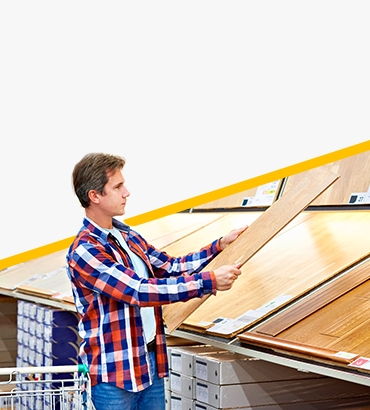
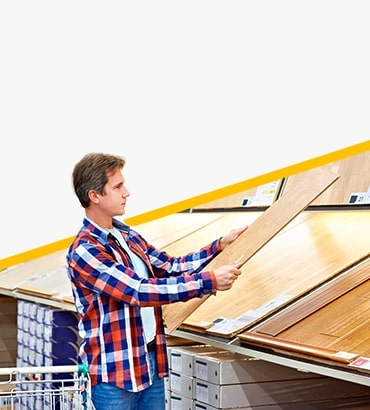
test site

diff --git a/index.html b/index.html
@@ -6,31 +6,6 @@
   <meta name="viewport" content="width=device-width, initial-scale=1.0">
   <meta http-equiv="X-UA-Compatible" content="ie=edge">
   <title>Ремонт квартир</title>
-  <!-- Yandex.Metrika counter -->
-  <script>
-    (function (m, e, t, r, i, k, a) {
-      m[i] = m[i] || function () {
-        (m[i].a = m[i].a || []).push(arguments)
-      };
-      m[i].l = 1 * new Date();
-      k = e.createElement(t), a = e.getElementsByTagName(t)[0], k.async = 1, k.src = r, a.parentNode.insertBefore(k,
-        a)
-    })
-    (window, document, "script", "https://mc.yandex.ru/metrika/tag.js", "ym")
-
-    ym(51456473, "init", {
-      id: 51456473,
-      clickmap: true,
-      trackLinks: true,
-      accurateTrackBounce: true,
-      webvisor: true,
-      trackHash: true
-    });
-  </script>
-  <noscript>
-    <div><img src="https://mc.yandex.ru/watch/51456473" style="position:absolute; left:-9999px;" alt="" /></div>
-  </noscript>
-  <!-- /Yandex.Metrika counter -->
   <script src="//code.jquery.com/jquery-1.11.0.min.js"></script>
   <link rel="stylesheet" href="css/slick.css">
   <link rel="stylesheet" href="css/animate.css">
@@ -89,7 +64,7 @@
         </div>
         <div class="main-img wow fadeInRight" data-wow-delay="0.8s">
           <div class="main-img__wrap">
-            <img src="img/main/main-img.png" class="main-img__image" alt="План-схема">
+            <img src="img/main/main-img.jpg" class="main-img__image" alt="План-схема">
           </div>
         </div>
       </div>
@@ -131,17 +106,17 @@
       </h2>
       <div class="slider-wrap">
         <div class="slider wow fadeInRight">
-          <div class="slider__item"><img src="img/portfolio/slider-image1.png" alt="slide1"></div>
+          <div class="slider__item"><img src="img/portfolio/slider-image1.jpg" alt="slide1"></div>
           <!-- /.slider__item -->
-          <div class="slider__item"><img src="img/portfolio/slider-image2.png" alt="slide2"></div>
+          <div class="slider__item"><img src="img/portfolio/slider-image2.jpg" alt="slide2"></div>
           <!-- /.slider__item -->
-          <div class="slider__item"><img src="img/portfolio/slider-image3.png" alt="slide3"></div>
+          <div class="slider__item"><img src="img/portfolio/slider-image3.jpg" alt="slide3"></div>
           <!-- /.slider__item -->
-          <div class="slider__item"><img src="img/portfolio/slider-image1.png" alt="slide4"></div>
+          <div class="slider__item"><img src="img/portfolio/slider-image1.jpg" alt="slide4"></div>
           <!-- /.slider__item -->
-          <div class="slider__item"><img src="img/portfolio/slider-image2.png" alt="slide5"></div>
+          <div class="slider__item"><img src="img/portfolio/slider-image2.jpg" alt="slide5"></div>
           <!-- /.slider__item -->
-          <div class="slider__item"><img src="img/portfolio/slider-image3.png" alt="slide6"></div>
+          <div class="slider__item"><img src="img/portfolio/slider-image3.jpg" alt="slide6"></div>
           <!-- /.slider__item -->
         </div>
         <!-- /.slider -->
@@ -796,6 +771,29 @@
   <script>
     new WOW().init();
   </script>
+  <script>
+    (function (m, e, t, r, i, k, a) {
+      m[i] = m[i] || function () {
+        (m[i].a = m[i].a || []).push(arguments)
+      };
+      m[i].l = 1 * new Date();
+      k = e.createElement(t), a = e.getElementsByTagName(t)[0], k.async = 1, k.src = r, a.parentNode.insertBefore(k,
+        a)
+    })
+    (window, document, "script", "https://mc.yandex.ru/metrika/tag.js", "ym")
+
+    ym(51456473, "init", {
+      id: 51456473,
+      clickmap: true,
+      trackLinks: true,
+      accurateTrackBounce: true,
+      webvisor: true,
+      trackHash: true
+    });
+  </script>
+  <noscript>
+    <div><img src="https://mc.yandex.ru/watch/51456473" style="position:absolute; left:-9999px;" alt="" /></div>
+  </noscript>
   <script src="js/main.js"></script>
 </body>
 

diff --git a/css/style.css b/css/style.css
@@ -532,7 +532,7 @@ template {
 
 .feedback {
   padding: 68px 0;
-  background: url("../img/feedback/feedback-bg.png") no-repeat center right;
+  background: url("../img/feedback/feedback-bg.jpg") no-repeat center right;
   position: relative;
   z-index: 1;
 }
@@ -636,7 +636,7 @@ template {
 .portfolio {
   padding: 90px 0 187px;
   position: relative;
-  background: url("../img/portfolio/portfolio-bg.png"), #f5f5f5;
+  background: url("../img/portfolio/portfolio-bg.jpg"), #f5f5f5;
   z-index: 0;
 }
 

diff --git a/sass/_portfolio.sass b/sass/_portfolio.sass
@@ -1,7 +1,7 @@
 .portfolio
   padding: 90px 0 187px
   position: relative
-  background: url('../img/portfolio/portfolio-bg.png') , $light-bg-color
+  background: url('../img/portfolio/portfolio-bg.jpg') , $light-bg-color
   z-index: 0
   &:before
     content: ''

diff --git a/sass/_feedback.sass b/sass/_feedback.sass
@@ -1,6 +1,6 @@
 .feedback
   padding: 68px 0
-  background: url('../img/feedback/feedback-bg.png') no-repeat center right 
+  background: url('../img/feedback/feedback-bg.jpg') no-repeat center right 
   position: relative 
   z-index: 1
   &-wrap
